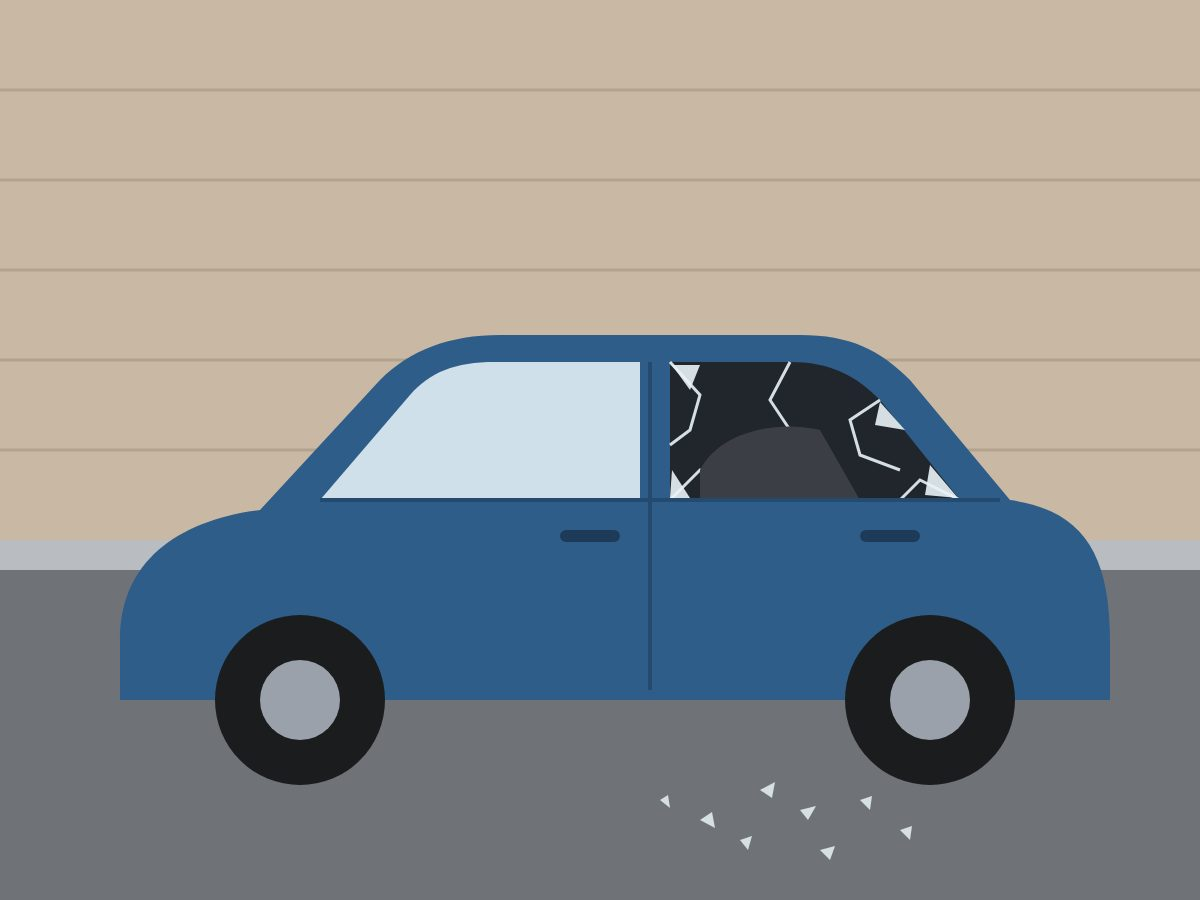
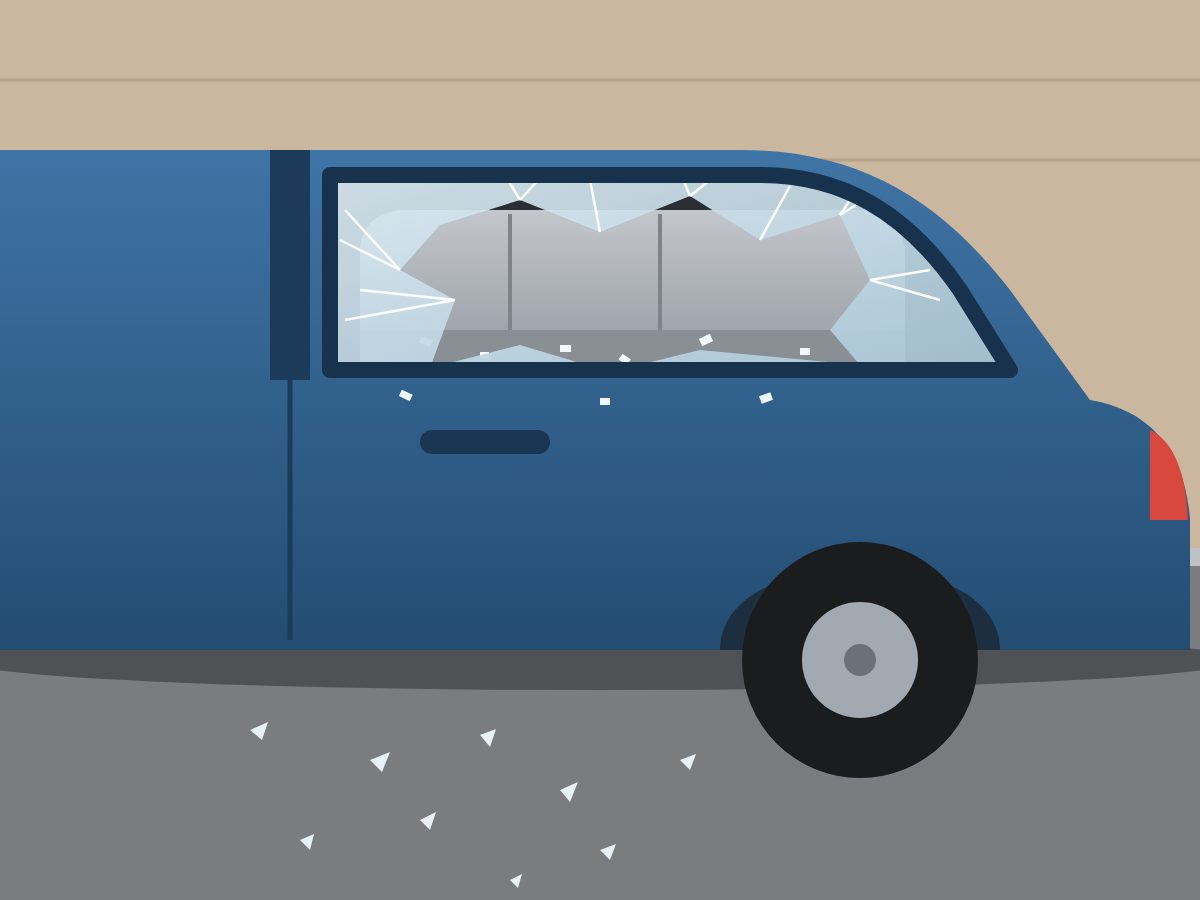
Make the registry agree with the playbooks, and a clearer car window sample
A driving licence goes to Manual review, as the identity rules say, not to
Document check. The bug reports' Identity team no longer claims sign-in
loops in its criteria, and the playbook says plainly, in the pinned rules
and in Identity's and Platform's documents, that a sign-in loop is
Platform's. A new test holds every form's registry to what its pinned
rules and team documents say where that can be read mechanically. The
broken car window sample is redrawn as a close-up of the car with the
shattered rear window and the empty back seat, and its text matches it.

diff --git a/test/rules.test.ts b/test/rules.test.ts
@@ -1,0 +1,92 @@
+import { join } from "node:path";
+import { describe, expect, it } from "vitest";
+import { FORMS, FORM_IDS } from "@/lib/forms/definitions";
+import type { FormDef, TeamDef } from "@/lib/forms/types";
+import { readPlaybooks } from "@/lib/knowledge/playbooks";
+
+/**
+ * The registry routes by itself where no model is asked: a team's queue, and
+ * the criteria the model reads beside the rules. These tests hold the registry
+ * to what each form's playbook says, wherever that can be read mechanically.
+ */
+const playbooks = readPlaybooks(join(__dirname, "..", "knowledge"));
+
+function sentences(form: string, pinned: boolean): string[] {
+  return playbooks
+    .filter((p) => p.form === form && p.pinned === pinned)
+    .flatMap((p) => p.text.split("\n"))
+    .filter((line) => line.startsWith("- "))
+    .flatMap((line) => line.slice(2).split(/(?<=\.)\s+/));
+}
+
+/** The teams a sentence names, by their names in the registry. */
+function named(form: FormDef, text: string): TeamDef[] {
+  const lower = text.toLowerCase();
+  return form.teams.filter((t) => lower.includes(t.name.toLowerCase()));
+}
+
+function queue(team: TeamDef): string {
+  return team.queue ?? team.name;
+}
+
+describe.each(FORM_IDS)("the %s registry agrees with its pinned rules", (id) => {
+  const form: FormDef = FORMS[id];
+  const rules = sentences(id, true);
+
+  it("sends what the rules do not accept where the rules say, not with what they accept", () => {
+    const accepted = rules.filter((s) => /\baccepts\b/i.test(s)).flatMap((s) => named(form, s));
+    for (const s of rules.filter((x) => /\bnot accepted\b/i.test(x))) {
+      const [subject, target] = s.split(/\broute it to\b|\bgoes to\b/i);
+      const refused = named(form, subject);
+      const to = target ? named(form, target) : [];
+      expect(refused.length, s).toBeGreaterThan(0);
+      for (const team of refused) {
+        for (const ok of accepted) expect(queue(team), `${team.name} in "${s}"`).not.toBe(queue(ok));
+        for (const t of to) expect(queue(team), `${team.name} in "${s}"`).toBe(queue(t));
+      }
+    }
+  });
+
+  it("gives what the rules accept one queue", () => {
+    for (const s of rules.filter((x) => /\baccepts\b/i.test(x))) {
+      const queues = new Set(named(form, s).map(queue));
+      expect(queues.size, s).toBeLessThanOrEqual(1);
+    }
+  });
+
+  it("never lists, in a team's criteria, what a rule says that team does not get", () => {
+    for (const s of rules) {
+      const m = /^(?:A|An)\s+(.+?)\s+goes to\s+[A-Z][\w ]*?,\s+never to\s+([A-Z][\w ]*?)\./.exec(s);
+      if (!m) continue;
+      const [, thing, other] = m;
+      const team = form.teams.find((t) => t.name === other);
+      expect(team, `"${other}" in "${s}" is a team`).toBeDefined();
+      expect(team!.criteria.toLowerCase(), s).not.toContain(thing.toLowerCase());
+    }
+  });
+
+  it("agrees with the team documents that say whether a document is accepted", () => {
+    const say = (pattern: RegExp) =>
+      playbooks
+        .filter((p) => p.form === id && !p.pinned && pattern.test(p.text))
+        .map((p) => form.teams.find((t) => `${id}:${t.id}` === p.reference))
+        .filter((t): t is TeamDef => t !== undefined);
+    const refused = say(/\bnot accepted\b/i);
+    const accepted = say(/(?<!not )\baccepted for\b/i).filter((t) => !refused.includes(t));
+    for (const r of refused) for (const a of accepted) expect(queue(r), r.name).not.toBe(queue(a));
+  });
+});
+
+describe("the identity form", () => {
+  it("sends a driving licence to Manual review, as the rules say", () => {
+    const licence = FORMS.identity.teams.find((t) => t.id === "driving_licence")!;
+    expect(queue(licence)).toBe("Manual review");
+  });
+});
+
+describe("the bug report form", () => {
+  it("leaves a sign-in loop to Platform: Identity's criteria do not claim it", () => {
+    const identity = FORMS.bugs.teams.find((t) => t.id === "identity")!;
+    expect(identity.criteria.toLowerCase()).not.toMatch(/loop|sessions? that end/);
+  });
+});

diff --git a/src/lib/forms/registry/identity.ts b/src/lib/forms/registry/identity.ts
@@ -33,7 +33,8 @@ export const identity = {
   teams: [
     { id: "passport", name: "Passport", criteria: "A passport's photo page.", queue: accepted },
     { id: "national_id", name: "National ID card", criteria: "A national identity card.", queue: accepted },
-    { id: "driving_licence", name: "Driving licence", criteria: "A driving licence card.", queue: accepted },
+    // not accepted for opening an account: a person asks for another document (knowledge/identity/always.md)
+    { id: "driving_licence", name: "Driving licence", criteria: "A driving licence card.", queue: "Manual review" },
     { id: "residence_permit", name: "Residence permit", criteria: "A residence permit card.", queue: accepted },
     {
       id: "not_a_document",

diff --git a/src/lib/forms/registry/insurance.ts b/src/lib/forms/registry/insurance.ts
@@ -75,7 +75,7 @@ export const insurance = {
         policy: "BM-CAR-207731",
         date: "Last night",
         description:
-          "Someone smashed the side window of my car on the street and took a laptop bag from the back seat. The car is parked outside the house.",
+          "Someone smashed the rear side window of my car while it was parked on the street outside our house, and took a laptop bag from the back seat. The seat is empty now apart from broken glass, and there is glass on the pavement.",
       },
       pictures: { photos: ["/samples/insurance/broken-car-window.jpg"] },
     },

diff --git a/src/lib/forms/registry/bugs.ts b/src/lib/forms/registry/bugs.ts
@@ -53,7 +53,7 @@ export const bugs = {
     {
       id: "identity",
       name: "Identity",
-      criteria: "Signing in, sign-in loops, single sign-on, sessions that end, two-factor codes and permissions.",
+      criteria: "The sign-in page, single sign-on, two-factor codes, password rules and permissions.",
     },
     {
       id: "mobile",

diff --git a/knowledge/bugs/always.md b/knowledge/bugs/always.md
@@ -4,7 +4,7 @@ pinned: true
 ---
 # Bug rules for every report
 
-- A sign-in loop, where signing in returns to the sign-in page, goes to Platform: the session service moved to the new gateway, which Platform owns. Identity owns the sign-in page, single sign-on and two-factor codes.
+- A sign-in loop goes to Platform, never to Identity. A sign-in loop is when signing in lands on the sign-in page again. The session service behind it moved to the new gateway, which Platform owns.
 - An error on every page, or an error 500 that stops a team from working, is an outage: Platform, Critical.
 - Lost or exposed customer data is Critical, whichever team owns it.
 - A purely visual glitch that blocks nothing is Low.

diff --git a/knowledge/bugs/platform.md b/knowledge/bugs/platform.md
@@ -4,9 +4,9 @@ title: Platform
 # Platform
 
 ## What we own
-Servers, error 500 pages, outages, slow requests, the public API, webhooks, and the session service behind signing in.
+Servers, error 500 pages, outages, slow requests, the public API, webhooks, and the session service behind signing in, including every sign-in loop.
 
 ## Examples
 - Every page shows "Internal Server Error".
 - Webhooks stopped arriving.
-- Being sent back to the sign-in page right after signing in.
+- A sign-in loop: being sent back to the sign-in page right after signing in.

diff --git a/knowledge/bugs/identity.md b/knowledge/bugs/identity.md
@@ -7,4 +7,5 @@ title: Identity
 The sign-in page itself, single sign-on with a customer's identity provider, two-factor codes, password rules and user permissions.
 
 ## Not ours
-- Sessions that end at once or loop back to sign-in: Platform.
+- Identity does NOT own a sign-in loop that returns to the sign-in page: Platform does, since the session service moved to the new gateway.
+- Sessions that end at once: Platform.
